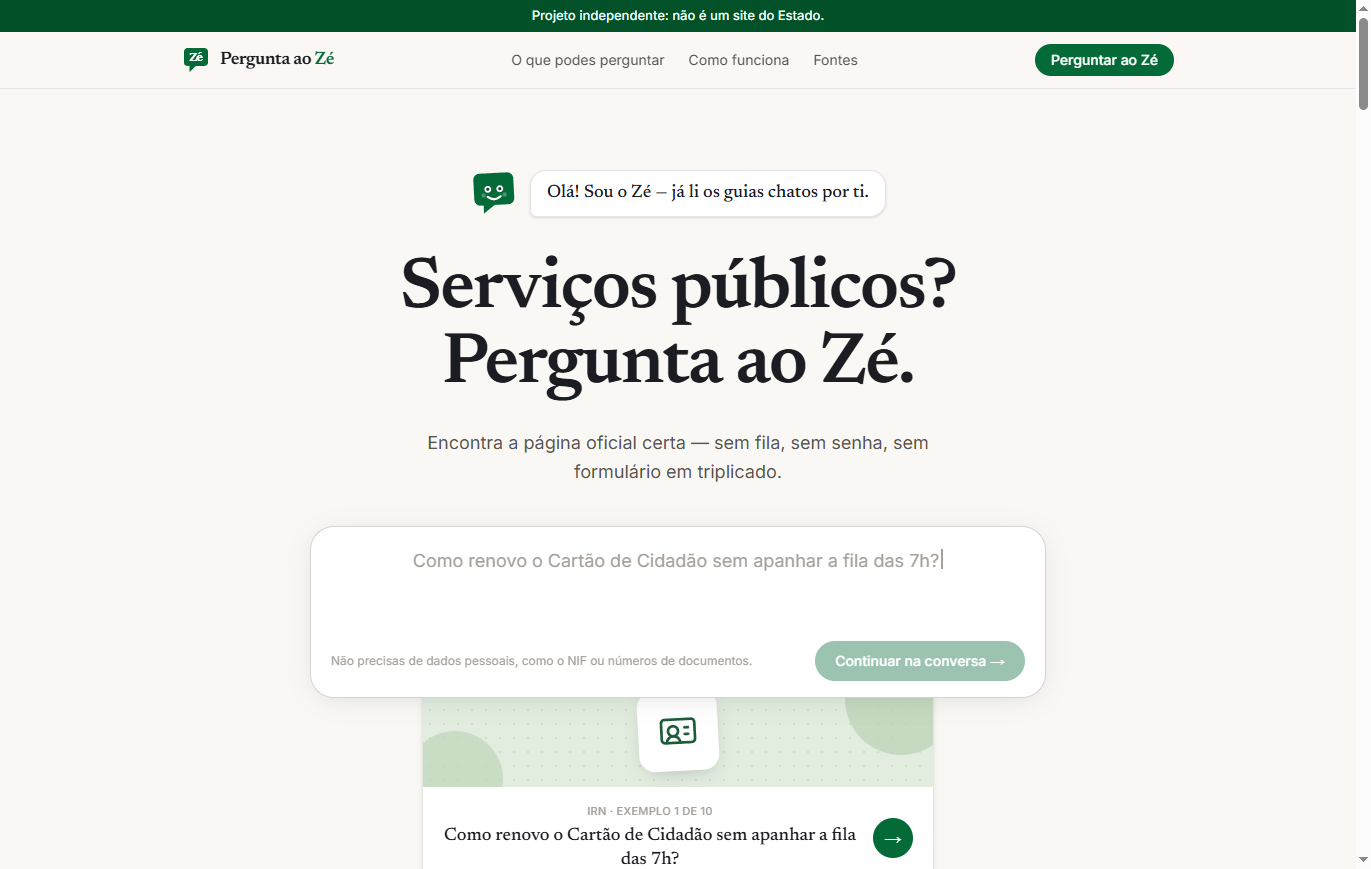
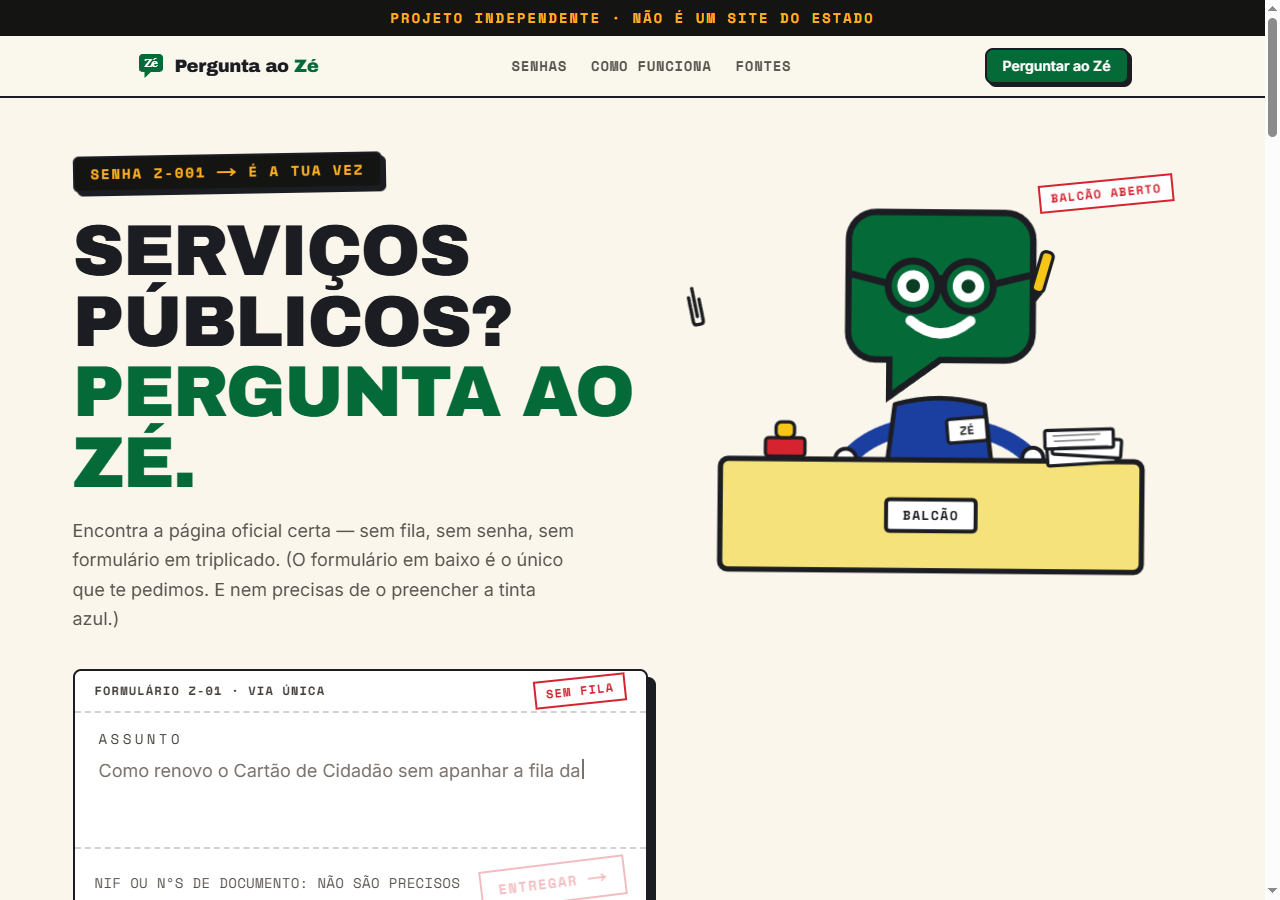
README e screenshot da home atualizados para a identidade atual

diff --git a/README.md b/README.md
@@ -8,6 +8,10 @@ Os serviços públicos portugueses, numa só pergunta. O **Zé** responde com ba
 em páginas oficiais e diz-te por onde começar — telefones, horários e links
 verificados incluídos.
 
+O visual é a burocracia como objeto físico — senhas de atendimento, carimbos,
+formulários e um painel LED de chamada. O Zé é o funcionário do balcão, em
+SVG inline, com expressões para cada estado do chat.
+
 Projeto independente — não é um site do Estado.
 
 ![Screenshot](docs/screenshot-home.png)
@@ -57,7 +61,8 @@ LLM_MODEL_FALLBACK=openai/gpt-oss-20b   # opcional
 app/                  páginas (/, /chat, /fontes, /privacidade, /termos)
 app/api/responder/    POST { pergunta } -> resposta do motor
 app/opengraph-image   cartão de partilha gerado automaticamente
-components/           Header, Footer, Chat, ZeFace, ZeMark...
+components/           Header, Footer, Chat, ZePersonagem, SenhaTema,
+                      FontesArquivo (arquivo expansível de /fontes)...
 lib/data/temas.ts     base de conhecimento curada (temas, perguntas, fontes)
 lib/data/fontes.ts    entidades oficiais + contactos (telefone, horário, email)
 lib/engine.ts         motores de resposta (keyword + LLM com fallback)
